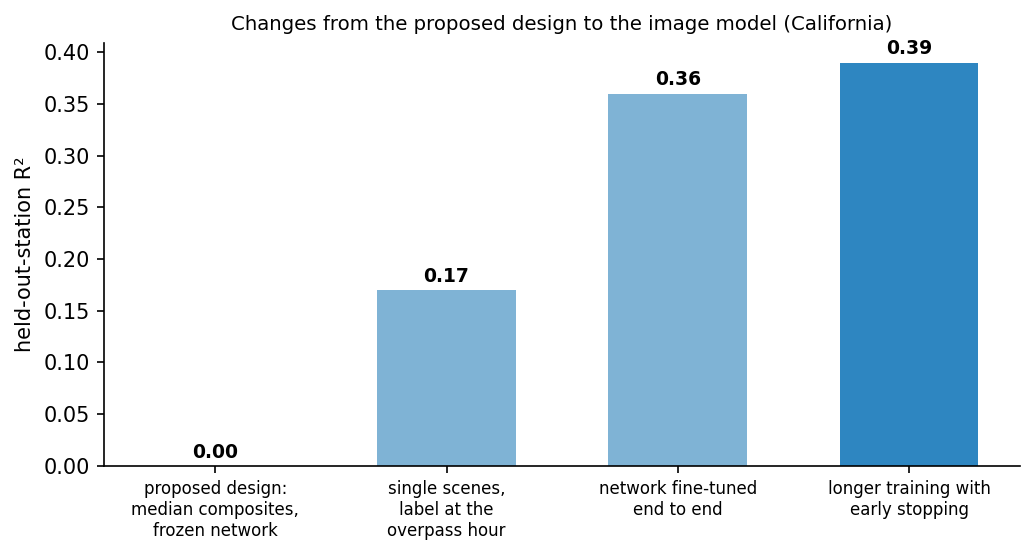
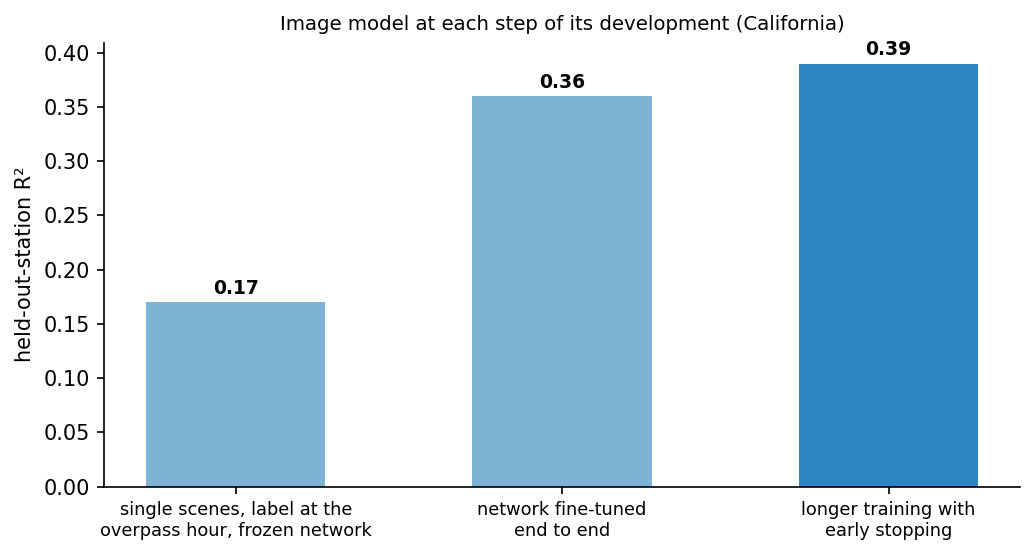
Figure 3.2: development steps of the image model only

diff --git a/scripts/11_figures.py b/scripts/11_figures.py
@@ -306,15 +306,14 @@ def fig12():
 
 def fig13():  # §2 ladder rows 1-10
     fig, ax = plt.subplots(figsize=(7, 3.8))
-    levers = [("proposed design:\nmedian composites,\nfrozen network", 0.00),
-              ("single scenes,\nlabel at the\noverpass hour", 0.17),
+    levers = [("single scenes, label at the\noverpass hour, frozen network", 0.17),
               ("network fine-tuned\nend to end", 0.36), ("longer training with\nearly stopping", 0.39)]
     v = [x for _, x in levers]
-    ax.bar(range(4), v, color=[GRAY, LTBLUE, LTBLUE, BLUE], width=0.6)
+    ax.bar(range(3), v, color=[LTBLUE, LTBLUE, BLUE], width=0.55)
     for i, x in enumerate(v):
         ax.text(i, x + 0.008, f"{x:.2f}", ha="center", fontweight="bold", fontsize=9)
-    ax.set_xticks(range(4)); ax.set_xticklabels([n for n, _ in levers], fontsize=8)
-    ax.set_title("Changes from the proposed design to the image model (California)", fontsize=9.5)
+    ax.set_xticks(range(3)); ax.set_xticklabels([n for n, _ in levers], fontsize=8.5)
+    ax.set_title("Image model at each step of its development (California)", fontsize=9.5)
     ax.set_ylabel("held-out-station R²")
     save(fig, "fig13_dead_matrix_levers.png")
 
